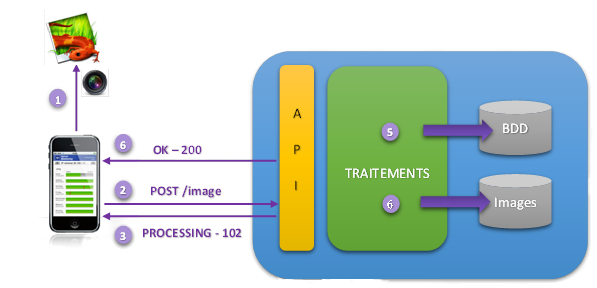
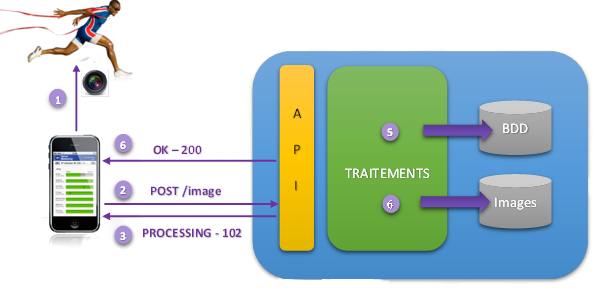
change image archi and add pointt

Changed region(s): [[0.0, 0.0, 0.2412, 0.2812]]

diff --git a/index.html b/index.html
@@ -115,7 +115,7 @@
                                         <div class="6u">
                                             <section>
                                                 <h3 class="fa fa-comment">Description</h3>
-                                                <p>Rio’cognized est une application <b>époustouflante</b> vous permettant de  maîtriser parfaitement tous les athlètes des Jeux Olympiques de Rio.
+                                                <p>Rio’cognized est une application <b>époustouflante</b> vous permettant de connaître parfaitement tous les athlètes des Jeux Olympiques de Rio.
                                                 </p>
                                             </section>
                                         </div>
@@ -125,7 +125,7 @@
                                                 <p>Pour accéder à toutes les informations disponibles sur un athlète, 
                                                     vous pouvez soit le prendre simplement en <b>photo</b> avec votre smartphone, 
                                                     soit utiliser des critères tels que sa nationalité, son sport, sa couleur 
-                                                    et d’autres pour le retrouver</p>
+                                                    et d’autres pour le retrouver.</p>
                                             </section>
                                         </div>
                                     </div>
